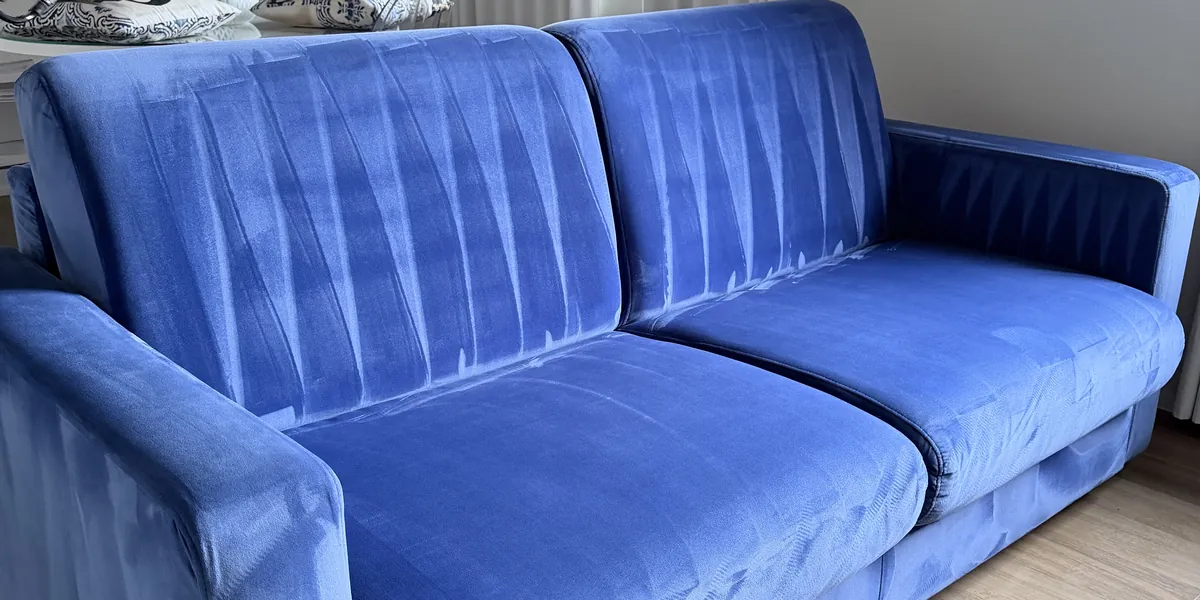
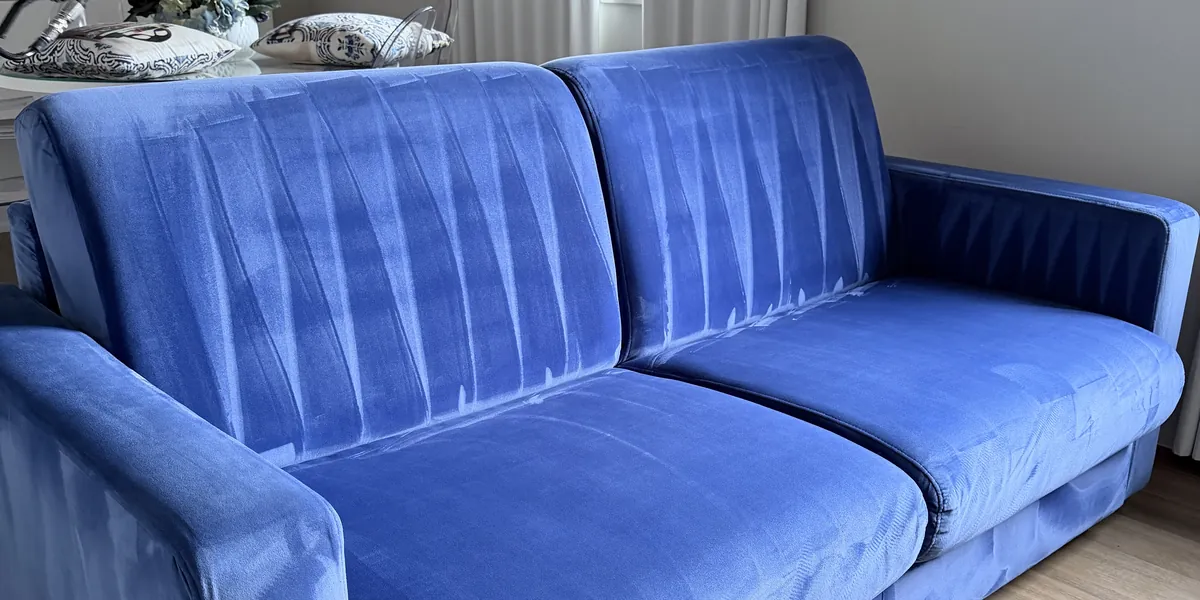
Material do sofá em medida normal (150 px, sofá inteiro), no widget e no questionário (dono, 25 Nov: "coloca uma medida normal")

diff --git a/src/components/quiz/VisitBasket.tsx b/src/components/quiz/VisitBasket.tsx
@@ -807,12 +807,12 @@ function ItemSheet({ item, fresh, city, others, onChange, onSave, onCancel }: { 
         </div>}
         {materials && material === null && <>
           <p className="mb-3 mt-1 text-base font-semibold text-white/85">{materials.ask}</p>
-          {/* Sofá: 2 fotografias na horizontal, uma por linha; tapete: 2 na vertical (dono, 24 Nov). */}
-          <div className={`grid min-h-72 grow auto-rows-fr gap-3 ${item.kind === 'sofa' ? 'grid-cols-1' : 'grid-cols-2'}`}>
+          {/* Sofá: 2 fotografias na horizontal, uma por linha; tapete: 2 na vertical (dono, 24 Nov). Medida normal, nunca a encher o ecrã (dono, 25 Nov). */}
+          <div className={`grid gap-3 ${item.kind === 'sofa' ? 'grid-cols-1' : 'grid-cols-2'}`}>
             {materials.options.map(o => (
-              <button key={o.m} type="button" aria-pressed={material === o.m} onClick={() => chooseMaterial(o.m)} className="relative overflow-hidden rounded-2xl border border-[#D4AF37]/50 text-left active:scale-[0.98]">
+              <button key={o.m} type="button" aria-pressed={material === o.m} onClick={() => chooseMaterial(o.m)} className={`relative overflow-hidden rounded-2xl border border-[#D4AF37]/50 text-left active:scale-[0.98] ${item.kind === 'sofa' ? 'h-[150px]' : 'h-44'}`}>
                 <img src={o.photo} alt="" className="absolute inset-0 h-full w-full object-cover" />
-                <span className="absolute inset-x-0 bottom-0 flex items-center justify-between rounded-b-2xl bg-black/65 px-4 py-3"><span className="text-lg font-bold text-white">{o.label}</span><Plus className="h-5 w-5 shrink-0" style={{ color: GOLD }} strokeWidth={3} /></span>
+                <span className="absolute inset-x-0 bottom-0 flex items-center justify-between rounded-b-2xl bg-gradient-to-t from-black/75 to-transparent px-3 pb-2 pt-6"><span className="text-base font-bold text-white">{o.label}</span><Plus className="h-5 w-5 shrink-0" style={{ color: GOLD }} strokeWidth={3} /></span>
               </button>
             ))}
           </div>

diff --git a/src/components/StepPricePicker.tsx b/src/components/StepPricePicker.tsx
@@ -71,7 +71,7 @@ function PhotoCards<T extends string>({ ask, options, onPick, wide = false }: { 
   return <>
     <p className="mb-3 text-lg font-semibold text-[#1A1A1A] md:text-xl">{ask}</p>
     <div className={`grid gap-3 md:grid-cols-2 md:gap-5 ${wide ? '' : 'grid-cols-2'}`}>
-      {options.map(o => <button key={o.id} type="button" onClick={() => onPick(o.id)} className={`group relative overflow-hidden ${wide ? 'aspect-[2/1] max-h-[21svh] w-full md:max-h-none md:aspect-[8/5]' : 'h-[min(38svh,330px)] md:h-[min(44svh,340px)]'} rounded-2xl text-left shadow-[0_18px_40px_-18px_rgba(11,47,42,0.55)] ring-1 ring-black/5 transition-transform duration-200 hover:-translate-y-0.5 active:scale-[0.98]`}>
+      {options.map(o => <button key={o.id} type="button" onClick={() => onPick(o.id)} className={`group relative overflow-hidden ${wide ? 'h-[150px] w-full md:h-44' : 'h-44 md:h-52'} rounded-2xl text-left shadow-[0_18px_40px_-18px_rgba(11,47,42,0.55)] ring-1 ring-black/5 transition-transform duration-200 hover:-translate-y-0.5 active:scale-[0.98]`}>
         <img src={o.photo} alt="" loading="lazy" decoding="async" className="absolute inset-0 h-full w-full object-cover transition-transform duration-500 group-hover:scale-105" />
         <span className="absolute inset-0 bg-gradient-to-t from-[#071a12]/80 via-transparent to-transparent" aria-hidden />
         <span className="absolute inset-x-0 bottom-0 flex items-center justify-between gap-1 p-3 md:p-5"><span className="whitespace-nowrap font-playfair text-[17px] font-semibold leading-tight text-white md:text-2xl">{o.label}</span><span className="grid h-8 w-8 shrink-0 place-items-center rounded-full bg-gradient-to-br md:h-10 md:w-10 from-[#E8C964] to-[#D4AF37] text-[#0B2F2A]"><ChevronRight className="h-5 w-5" strokeWidth={2.5} aria-hidden /></span></span>
